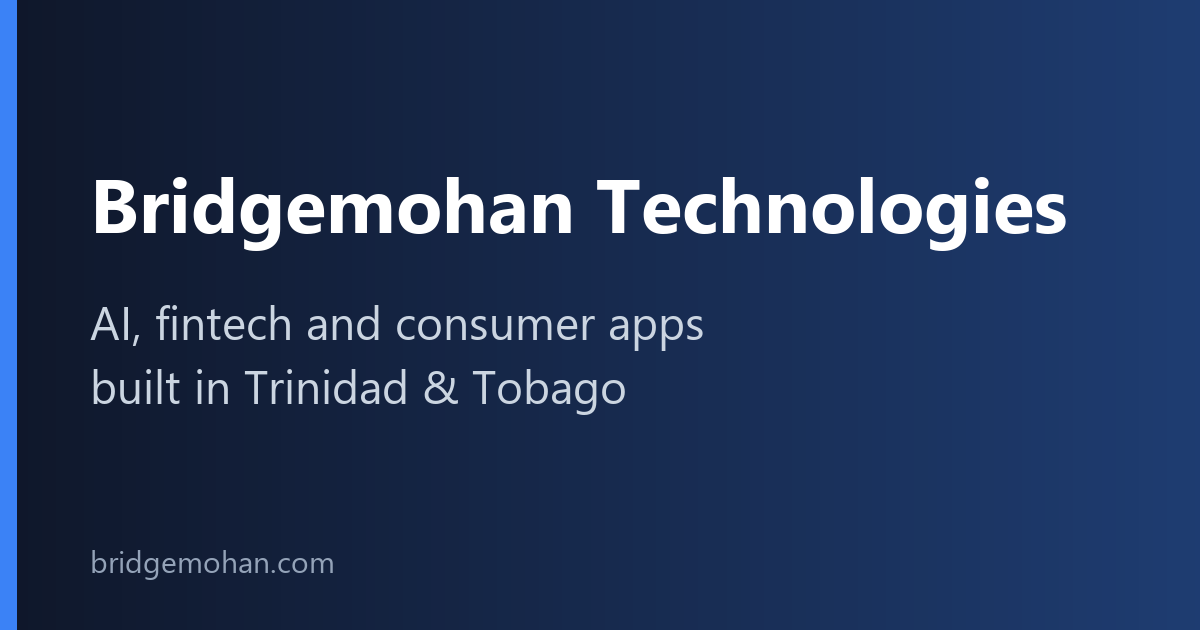
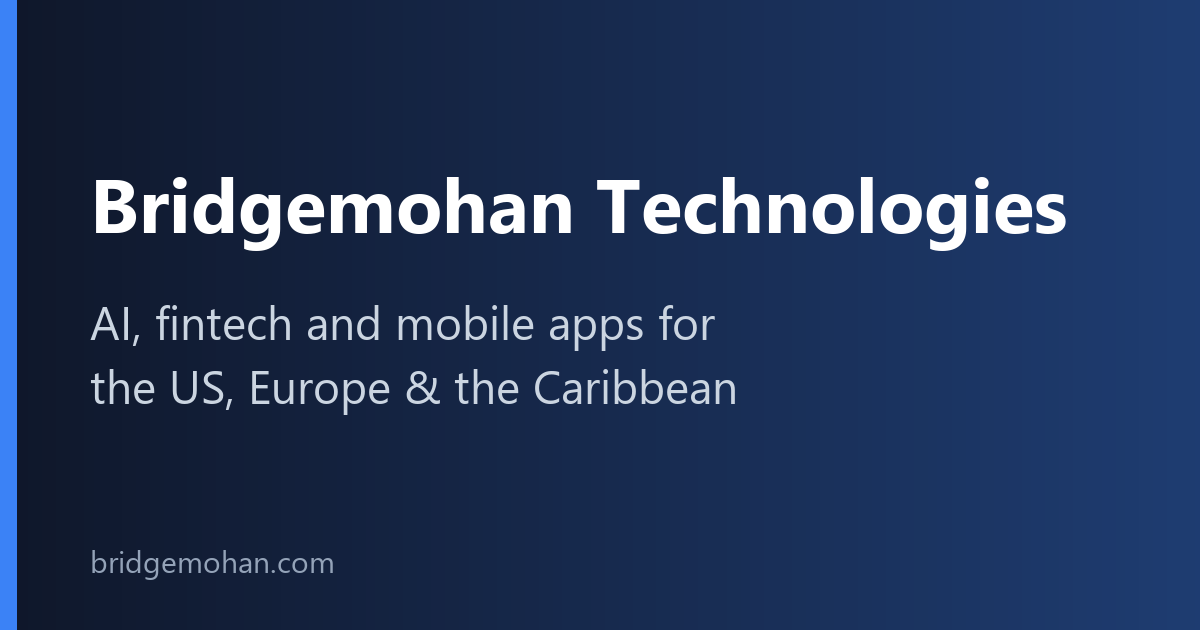
Position site for US, European and Caribbean clients
- Global hero and SEO copy, 15+ years, USD budget ranges
- Add "Why work with us" section (time zone overlap, proof, rates, security)
- Update structured data areaServed, footer, contact meta and default OG image

Changed region(s): [[0.0617, 0.573, 0.6167, 0.6635], [0.3083, 0.4825, 0.5858, 0.573]]

diff --git a/pages/index.tsx b/pages/index.tsx
@@ -7,7 +7,7 @@ import { Seo } from "../components/Seo";
 import { BetaSignupModal } from "../components/BetaSignupModal";
 import { products, getProduct } from "../data/products";
 import { accents, statusClasses } from "../data/accents";
-import { stats, services, processSteps, techStack, packages, testimonials, SITE_URL, CONTACT_EMAIL } from "../data/site";
+import { stats, services, whyUs, processSteps, techStack, packages, testimonials, SITE_URL, CONTACT_EMAIL } from "../data/site";
 
 const organizationJsonLd = {
   "@context": "https://schema.org",
@@ -15,9 +15,9 @@ const organizationJsonLd = {
   name: "Bridgemohan Technologies",
   url: SITE_URL,
   email: CONTACT_EMAIL,
-  description: "Software development company in Trinidad and Tobago building AI chatbots, fintech tools, and web and mobile apps.",
+  description: "Software development studio building AI chatbots, fintech tools, and web and mobile apps for clients in the US, Europe and the Caribbean.",
   address: { "@type": "PostalAddress", addressCountry: "TT" },
-  areaServed: ["Trinidad and Tobago", "Caribbean", "Worldwide"],
+  areaServed: ["United States", "Canada", "United Kingdom", "Europe", "Caribbean", "Trinidad and Tobago"],
   knowsAbout: ["Software development", "AI chatbots", "Mobile app development", "Web application development"],
 };
 
@@ -29,8 +29,8 @@ export default function Home() {
   return (
     <Layout>
       <Seo
-        title="Software Development in Trinidad | AI Chatbots & Apps | Bridgemohan Technologies"
-        description="Trinidad and Tobago software company building AI chatbots, fintech tools, and web and mobile apps. See four products we've built, then book a free consultation."
+        title="AI & App Development Studio | Nearshore for US & Europe | Bridgemohan Technologies"
+        description="Nearshore software studio in Trinidad and Tobago building AI chatbots, fintech tools, and web and mobile apps for clients in the US, Europe and the Caribbean. See four products we've built."
         path="/"
         jsonLd={organizationJsonLd}
       />
@@ -44,12 +44,12 @@ export default function Home() {
           className="text-center max-w-5xl mx-auto"
         >
           <h1 className="text-4xl sm:text-5xl md:text-6xl lg:text-7xl font-black mb-6 leading-tight tracking-tight">
-            <span className="text-slate-800 dark:text-white">We build AI, fintech and consumer apps for </span>
-            <span className="bg-gradient-to-r from-blue-600 via-indigo-600 to-purple-700 dark:from-blue-400 dark:via-indigo-400 dark:to-purple-500 text-transparent bg-clip-text">Caribbean businesses.</span>
+            <span className="text-slate-800 dark:text-white">We build AI, fintech and mobile apps </span>
+            <span className="bg-gradient-to-r from-blue-600 via-indigo-600 to-purple-700 dark:from-blue-400 dark:via-indigo-400 dark:to-purple-500 text-transparent bg-clip-text">for businesses worldwide.</span>
           </h1>
           <p className="text-2xl md:text-3xl font-semibold text-slate-700 dark:text-slate-200 mb-6">Here are four we&apos;ve built.</p>
           <p className="text-lg md:text-xl text-slate-600 dark:text-slate-300 mb-10 max-w-3xl mx-auto leading-relaxed">
-            10+ years of software experience. Based in Trinidad &amp; Tobago, working with clients locally and internationally.
+            15+ years of software experience. Based in Trinidad &amp; Tobago, working with clients across the US, Europe and the Caribbean, on hours that overlap with yours.
           </p>
 
           <div className="flex flex-col sm:flex-row gap-4 justify-center items-center">
@@ -176,6 +176,25 @@ export default function Home() {
                 </div>
               );
             })}
+          </div>
+        </div>
+      </section>
+
+      {/* Why us */}
+      <section id="why-us" className="py-20 md:py-24 px-4 scroll-mt-16">
+        <div className="max-w-7xl mx-auto">
+          <SectionHeader
+            eyebrow="Why work with us"
+            title="A nearshore team on your hours"
+            intro="Based in the Caribbean, working with clients in the US, Canada, the UK and Europe."
+          />
+          <div className="grid grid-cols-1 sm:grid-cols-2 lg:grid-cols-4 gap-6">
+            {whyUs.map((item) => (
+              <div key={item.title} className="p-6 rounded-2xl bg-white dark:bg-gray-800/50 border border-slate-200 dark:border-gray-700">
+                <h3 className="text-lg font-bold mb-2 text-slate-800 dark:text-white">{item.title}</h3>
+                <p className="text-sm text-slate-600 dark:text-slate-400 leading-relaxed">{item.description}</p>
+              </div>
+            ))}
           </div>
         </div>
       </section>

diff --git a/data/site.ts b/data/site.ts
@@ -7,7 +7,7 @@ export const CONTACT_EMAIL = "nbridgemohan@gmail.com";
 
 // Every number here must be true. Replace or add as real figures come in.
 export const stats = [
-  { number: "10+", label: "Years building software" },
+  { number: "15+", label: "Years building software" },
   { number: "4", label: "Products built in-house" },
   { number: "3", label: "AI-powered products" },
   { number: "Web + Android", label: "Platforms we ship on" },
@@ -56,7 +56,7 @@ export const services: Service[] = [
     title: "Consumer web and mobile apps",
     icon: BsPhone,
     accent: "green",
-    forWho: "Founders and brands launching an app or online store for customers in T&T and the Caribbean.",
+    forWho: "Founders and brands launching a mobile app, web app or online store.",
     deliver: [
       "Android, iOS and web apps from one Flutter codebase",
       "Accounts, payments and push notifications",
@@ -108,7 +108,7 @@ export const techStack = [
 
 export interface StarterPackage {
   name: string;
-  // e.g. "TT$15,000" or "US$2,500". Leave null to show "Fixed quote after a free call".
+  // e.g. "US$2,500". Leave null to show "Fixed quote after a free call".
   priceFrom: string | null;
   timeline: string | null;
   description: string;
@@ -173,8 +173,32 @@ export const projectTypes = [
 // Update these ranges to match how you price work.
 export const budgetRanges = [
   "Not sure yet",
-  "Under TT$10,000",
-  "TT$10,000 – TT$25,000",
-  "TT$25,000 – TT$75,000",
-  "TT$75,000+",
+  "Under US$2,500",
+  "US$2,500 – US$10,000",
+  "US$10,000 – US$25,000",
+  "US$25,000+",
+];
+
+// Reasons an overseas client can work with a studio in Trinidad. Keep every point true.
+export const whyUs = [
+  {
+    title: "Your working hours",
+    description:
+      "We're on UTC-4: the same hours as US Eastern for much of the year, and overlapping European afternoons. Calls happen during your day, not at midnight.",
+  },
+  {
+    title: "Proof before you hire",
+    description:
+      "Every service we offer is backed by a product we built and run ourselves. You can try them before you talk to us.",
+  },
+  {
+    title: "Senior-level work, nearshore rates",
+    description:
+      "15+ years building software, at a lower cost than a US or European agency, with the same tools and cloud platforms.",
+  },
+  {
+    title: "Security built in",
+    description:
+      "Encryption at rest, role-based access and secure sign-in are part of how we build, as in BankerPro.",
+  },
 ];

diff --git a/components/Layout.tsx b/components/Layout.tsx
@@ -79,7 +79,7 @@ export function Layout({ children }: { children: ReactNode }) {
             Bridgemohan Technologies
           </Link>
           <p className="text-slate-600 dark:text-slate-400 max-w-xl mx-auto mb-6">
-            AI, fintech and consumer apps built in Trinidad &amp; Tobago, for clients at home and abroad.
+            AI, fintech and mobile apps for clients in the US, Europe and the Caribbean. Based in Trinidad &amp; Tobago.
           </p>
           <div className="flex flex-wrap justify-center gap-x-6 gap-y-2 mb-6 text-sm text-slate-600 dark:text-slate-400">
             {navLinks.map((link) => (

diff --git a/pages/contact.tsx b/pages/contact.tsx
@@ -62,8 +62,8 @@ export default function Contact() {
   return (
     <Layout>
       <Seo
-        title="Book a Free Consultation | Bridgemohan Technologies, Trinidad and Tobago"
-        description="Tell us about your software project. AI chatbots, business tools, and web and mobile apps built in Trinidad and Tobago."
+        title="Book a Free Consultation | Bridgemohan Technologies"
+        description="Tell us about your software project. AI chatbots, business tools, and web and mobile apps for clients in the US, Europe and the Caribbean."
         path="/contact"
       />
 
